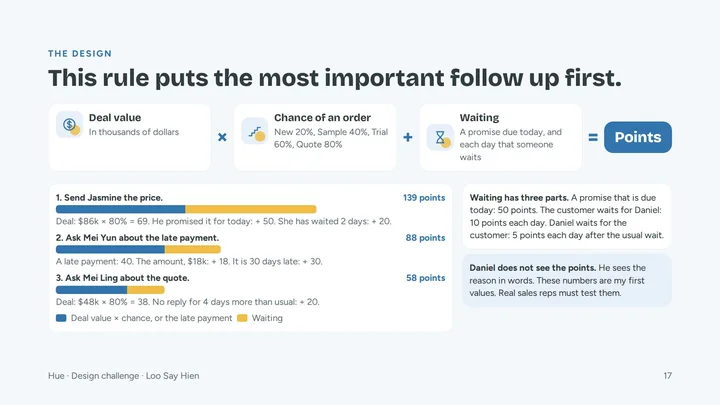
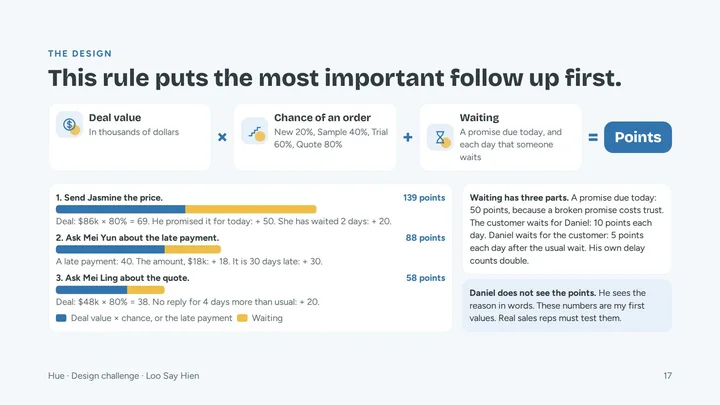
Third review of 6 October: new design system pictures, a quieter page sound, clearer slides
Link page: a new colour picture with whole cards, and two weather panels, sun and storm.
Design system page: the hex value in a colour card is plain text with no ground behind it.
Deck: the page sound is 70 percent quieter. The points slide gives the reason for the waiting points. The note measure counts visits.

Claude-Session: https://claude.ai/code/session_01VntYmmsz4Ly3rc1ciyMUdV

Changed region(s): [[0.6417, 0.4741, 0.9167, 0.8]]

diff --git a/links/index.html b/links/index.html
@@ -40,10 +40,11 @@
 .media.five .big{grid-row:1/3}
 .media.five img{background:none;border-radius:0;filter:drop-shadow(0 10px 24px rgba(48,60,64,.2))}
 .media.five figure:not(.big) figcaption{font-size:12.5px;border-left-width:2px;padding-left:7px}
-/* 2 pictures: one wide, one smaller at the right */
-.media.two{grid-template-columns:1fr}
-.media.two figure:nth-child(2){width:62%;margin-left:auto}
-.media.two figure:nth-child(2) img{box-shadow:var(--shadow-s)}
+/* the design system: the colours, then two weather panels side by side. The pictures have their own ground */
+.media.wx{gap:18px}
+.media.wx figure.plain img{background:none;border-radius:0;box-shadow:none;border:0}
+.media.wx .two{gap:clamp(10px,2vw,20px)}
+.media.wx .two img{aspect-ratio:auto;object-fit:contain;box-shadow:none;filter:drop-shadow(0 8px 18px rgba(48,60,64,.14))}
 /* 3 pictures: one tall, two wide */
 .media.trio{grid-template-columns:5fr 7fr;align-items:center}
 .media.trio .col{display:grid;gap:12px}
@@ -77,7 +78,7 @@
 <div class="wrap spreads"><section class="sp" id="prototype" aria-label="Try the prototype"><div class="txt"><p class="n" aria-hidden="true">01</p><h2><a href="../prototype/">Try the prototype</a></h2><p class="tease">It works on this phone. Tap the round button and talk, type, write or take a photo. Hue fills in the fields. You check them and save. 100 sample customers are inside.</p><a class="btn p" href="../prototype/">Open the prototype<svg viewBox="0 0 24 24" aria-hidden="true"><path d="M5 12h14M13 6l6 6-6 6"/></svg></a></div><a class="media five" href="../prototype/" tabindex="-1" aria-hidden="true"><figure class="ph big"><img src="../assets/links/proto-home.webp" alt="Home on a phone: the weather for the visits, the sales bar at 68 percent, and Today." width="520" height="1044" loading="lazy"><figcaption>Home: is he on track today?</figcaption></figure><figure class="ph"><img src="../assets/links/proto-talkdone.webp" alt="Talk a note on a phone: the words that he says, and five ticks for the parts of a good note." width="380" height="763" loading="lazy"><figcaption>Talk a note.</figcaption></figure><figure class="ph"><img src="../assets/links/proto-check.webp" alt="Check and save on a phone: Hue filled in 6 fields from your voice note. Check each field, then save." width="380" height="763" loading="lazy"><figcaption>Check, then save.</figcaption></figure><figure class="ph"><img src="../assets/links/proto-why.webp" alt="A phone with a warning for Tuas Textile Print: no reply for 16 days, with the reason." width="380" height="763" loading="lazy"><figcaption>No reply, with the reason.</figcaption></figure><figure class="ph"><img src="../assets/links/proto-late.webp" alt="A phone with a late payment of Kian Seng Trading: the reason, and a plan with three payments." width="380" height="763" loading="lazy"><figcaption>A late payment, with a plan.</figcaption></figure></a></section>
 <section class="sp r" id="deck" aria-label="Presentation deck"><div class="txt"><p class="n" aria-hidden="true">02</p><h2><a href="../deck/">Presentation deck</a></h2><p class="tease">The full story in 32 slides. Who Daniel is. What goes wrong in his week. How 23 ideas became one assistant. Why each screen is built the way it is. With a full screen mode and my speaker notes.</p><a class="btn p" href="../deck/">Open the deck<svg viewBox="0 0 24 24" aria-hidden="true"><path d="M5 12h14M13 6l6 6-6 6"/></svg></a></div><a class="media three" href="../deck/" tabindex="-1" aria-hidden="true"><figure class="main page"><img src="../assets/links/deck-cover.webp" alt="The first slide: Hue. You sell. Hue keeps track. A light customer relationship management tool for Avient Specialty Inks sales reps." width="1200" height="675" loading="lazy"><figcaption>Slide 1.</figcaption></figure><div class="two"><figure class="page"><img src="../assets/links/deck-problem.webp" alt="A blue slide with the problem: Daniel must record what customers say, quickly and correctly. Then he must do many tasks, small and large, each at the right time." width="720" height="405" loading="lazy"><figcaption>The problem.</figcaption></figure><figure class="page"><img src="../assets/links/deck-points.webp" alt="A slide: This rule puts the most important follow up first." width="720" height="405" loading="lazy"><figcaption>The order of the follow ups.</figcaption></figure></div></a></section>
 <section class="sp" id="film" aria-label="Watch the film"><div class="txt"><p class="n" aria-hidden="true">03</p><h2><a href="../film/">Watch the film</a></h2><p class="tease">One work day of Daniel, with Hue, in 90 seconds. The weather for his visits. A note in seconds. A customer that does not reply. Each screen in the film is the real prototype.</p><a class="btn p" href="../film/">Play the film<svg viewBox="0 0 24 24" aria-hidden="true"><path d="M5 12h14M13 6l6 6-6 6"/></svg></a></div><a class="media one" href="../film/" tabindex="-1" aria-hidden="true"><figure class="main film"><img src="../assets/links/film-1.webp" alt="The first picture of the film: the name Hue, the words You sell. Hue keeps track, a clip of Daniel, and a phone with the full Home screen." width="1280" height="720" loading="lazy"><span class="play" aria-hidden="true"><svg viewBox="0 0 24 24"><path d="M9 6.5v11l9-5.500z"/></svg></span><figcaption>90 seconds, with sound.</figcaption></figure></a></section>
-<section class="sp r" id="system" aria-label="Hue Design System"><div class="txt"><p class="n" aria-hidden="true">04</p><h2><a href="../design-system/">Hue Design System</a></h2><p class="tease">A blue that is inspired by the Avient blue, but more subdued, so Daniel can focus on his work. The parts, live on the page. The words that Hue uses.</p><a class="btn p" href="../design-system/">Open the design system<svg viewBox="0 0 24 24" aria-hidden="true"><path d="M5 12h14M13 6l6 6-6 6"/></svg></a></div><a class="media two" href="../design-system/" tabindex="-1" aria-hidden="true"><figure class="main page"><img src="../assets/links/ds-colours.webp" alt="Colour cards: the Avient blue, and the more subdued blues of the app." width="1100" height="483" loading="lazy"><figcaption>The app blue is more subdued than the Avient blue.</figcaption></figure><figure class="page"><img src="../assets/links/ds-weather.webp" alt="The weather panel: Good morning, Daniel. Storms at 3 pm, when you visit Tuas Textile Print. Leave 15 minutes early." width="541" height="337" loading="lazy"><figcaption>A part: the greeting with the weather.</figcaption></figure></a></section>
+<section class="sp r" id="system" aria-label="Hue Design System"><div class="txt"><p class="n" aria-hidden="true">04</p><h2><a href="../design-system/">Hue Design System</a></h2><p class="tease">A blue that is inspired by the Avient blue, but more subdued, so Daniel can focus on his work. The parts, live on the page. The words that Hue uses.</p><a class="btn p" href="../design-system/">Open the design system<svg viewBox="0 0 24 24" aria-hidden="true"><path d="M5 12h14M13 6l6 6-6 6"/></svg></a></div><a class="media wx" href="../design-system/" tabindex="-1" aria-hidden="true"><figure class="plain"><img src="../assets/links/ds-colours.webp" alt="Colour cards. Avient blue, #0080E0. App blue, #3274AE: inspired by it, but more subdued. Below them: dark blue, pale blue, ink, Hue red and Hue yellow." width="1200" height="686" loading="lazy"><figcaption>The app blue is more subdued than the Avient blue.</figcaption></figure><div class="two"><figure class="plain"><img src="../assets/links/ds-wx-sun.webp" alt="The weather panel in the morning sun, in yellow: Good morning, Daniel. Storms at 3 pm, when you visit Tuas Textile Print. Leave 15 minutes early." width="515" height="305" loading="lazy"><figcaption>The weather panel in the sun.</figcaption></figure><figure class="plain"><img src="../assets/links/ds-wx-storm.webp" alt="The weather panel in a storm, in dark grey: Good afternoon, Daniel. The same sentence about the visit." width="515" height="305" loading="lazy"><figcaption>The same panel in a storm.</figcaption></figure></div></a></section>
 <section class="sp" id="guide" aria-label="How Hue Works"><div class="txt"><p class="n" aria-hidden="true">05</p><h2><a href="../guide/">How Hue Works</a></h2><p class="tease">Each screen, in three columns: what Daniel sees, what it does for him, and how Hue knows. With the rule that puts the most important follow up first.</p><a class="btn p" href="../guide/">Open the guide<svg viewBox="0 0 24 24" aria-hidden="true"><path d="M5 12h14M13 6l6 6-6 6"/></svg></a></div><a class="media trio" href="../guide/" tabindex="-1" aria-hidden="true"><figure class="page"><img src="../assets/links/guide-attn.webp" alt="A phone with a sheet for Tuas Textile Print: No reply for 16 days, why Hue flagged this, and four ways to act." width="508" height="1006" loading="lazy"><figcaption>What Hue does when a customer does not reply.</figcaption></figure><div class="col"><figure class="page"><img src="../assets/links/guide-flow.webp" alt="A diagram: Daniel records a note. Hue reads the note. Daniel checks and saves. The customer record. Then the parts of Home read the record." width="1000" height="749" loading="lazy"><figcaption>One note goes to all screens.</figcaption></figure><figure class="page"><img src="../assets/links/guide-table.webp" alt="A table: the first follow ups of the sample day, each with the reason that Daniel reads and how the points add up." width="900" height="465" loading="lazy"><figcaption>The reason for each follow up.</figcaption></figure></div></a></section>
 <section class="sp r" id="code" aria-label="The code"><div class="txt"><p class="n" aria-hidden="true">06</p><h2><a href="https://github.com/sayhien/avient-sales-rep-tool">The code</a></h2><p class="tease">The prototype is one file. It works from a folder, with no internet, on a phone, a tablet and a computer. The rule that puts the most important follow up first is a few lines.</p><a class="btn p" href="https://github.com/sayhien/avient-sales-rep-tool">Open the code on GitHub<svg viewBox="0 0 24 24" aria-hidden="true"><path d="M5 12h14M13 6l6 6-6 6"/></svg></a></div><a class="media pair" href="https://github.com/sayhien/avient-sales-rep-tool" tabindex="-1" aria-hidden="true"><figure class="code"><img src="../assets/links/code-rule.webp" alt="A card with code from the prototype: the function that gives points to each follow up." width="1200" height="520" loading="lazy"><figcaption>The rule for the order, from the real file.</figcaption></figure><figure class="dev"><img src="../assets/links/code-devices.webp" alt="Hue on a computer, a tablet and a phone." width="1100" height="632" loading="lazy"><figcaption>One file, three devices.</figcaption></figure></a></section></div>
 

diff --git a/deck/index.html b/deck/index.html
@@ -1113,7 +1113,7 @@ body.show{overflow:hidden}
 </div>
 <div style="width:560px;display:flex;flex-direction:column;gap:12px">
 <div style="display:flex;flex-direction:column;gap:8px;background:#FFFFFF;border:1px solid #E0E7ED;border-radius:24px;padding:20px">
-<p style="font-size:24px;line-height:1.4;color:#303C40"><b>Waiting has three parts.</b> A promise that is due today: 50 points. The customer waits for Daniel: 10 points each day. Daniel waits for the customer: 5 points each day after the usual wait.</p>
+<p style="font-size:24px;line-height:1.4;color:#303C40"><b>Waiting has three parts.</b> A promise due today: 50 points, because a broken promise costs trust. The customer waits for Daniel: 10 points each day. Daniel waits for the customer: 5 points each day after the usual wait. His own delay counts double.</p>
 </div>
 <div style="display:flex;flex-direction:column;gap:8px;background:#E7F0F8;border-radius:24px;padding:20px">
 <p style="font-size:24px;line-height:1.4;color:#303C40"><b>Daniel does not see the points.</b> He sees the reason in words. These numbers are my first values. Real sales reps must test them.</p>
@@ -1125,7 +1125,7 @@ body.show{overflow:hidden}
 <p style="font-size:24px;color:#5F6F78">17</p>
 </div>
 
-</section></div><p class="num"><span>17 of 32</span><button class="go" data-i="16">Present from this slide</button></p><p class="note"><b>Notes.</b> How does Hue know which follow up is first? It uses a rule. Points are the deal value times the chance of an order, plus the waiting time. Waiting has three parts. A promise that is due today gets 50 points. When the customer waits for Daniel, each day gets 10 points. When Daniel waits for the customer, each day after the usual wait gets 5 points. Here is an example. The price for Jasmine has 139 points, so it is first. A late payment has its own rule, because money that a customer owes comes before most new deals. Daniel does not see the points. He sees the reason. These numbers are my first values. A test with real sales reps must confirm them.</p></article>
+</section></div><p class="num"><span>17 of 32</span><button class="go" data-i="16">Present from this slide</button></p><p class="note"><b>Notes.</b> How does Hue know which follow up is first? It uses a rule. Points are the deal value times the chance of an order, plus the waiting time. Waiting has three parts. A promise that is due today gets 50 points, because a broken promise costs trust. This is as much as a large deal. When the customer waits for Daniel, each day gets 10 points. When Daniel waits for the customer, each day after the usual wait gets 5 points. His own delay counts double, because he can end it today. Each of these two stops at 30 points, so a small old item does not stay at the top. Here is an example. The price for Jasmine has 139 points, so it is first. A late payment has its own rule, because money that a customer owes comes before most new deals. Daniel does not see the points. He sees the reason. These numbers are my first values. A test with real sales reps must confirm them.</p></article>
 <article class="fr" id="capture"><div class="box"><section class="sl" id="s-capture" aria-label="Slide 18" data-transition="fade" style="background:#F4F8FB;color:#303C40;font-family:'Figtree', Arial, sans-serif;padding:128px 128px 160px;display:flex;flex-direction:column;gap:32px">
 <div style="display:flex;flex-direction:column;gap:16px">
 <p style="font-size:24px;font-weight:700;letter-spacing:3px;text-transform:uppercase;color:#3274AE">The design</p>
@@ -1726,8 +1726,8 @@ body.show{overflow:hidden}
 <div style="display:flex;flex-direction:row;gap:20px;align-items:center;padding:7px 0;border-bottom:1px solid #E0E7ED">
 <div style="flex:none;width:44px"><svg width="44" height="44" viewBox="0 0 44 44" fill="none"><g transform="scale(1.0000)"><rect width="44" height="44" rx="12" fill="#E7F0F8"/><circle cx="31" cy="31" r="8.5" fill="#EFBE46" opacity=".85"/><g transform="translate(10 10)" stroke="#3274AE" stroke-width="1.8" stroke-linecap="round" stroke-linejoin="round"><path d="M4 20l1-4L16 5a2.1 2.1 0 0 1 3 3L8 19z"/><path d="M13.5 7.5l3 3"/></g></g></svg></div>
 <p style="width:330px;font-size:24px;line-height:1.4;color:#303C40;font-weight:600">Notes are easy to do</p>
-<p style="flex:1;font-size:24px;line-height:1.4;color:#303C40;font-weight:400">Notes that are in the record on the day of the visit</p>
-<p style="width:400px;font-size:24px;line-height:1.4;color:#5F6F78;font-weight:400">9 of 10</p>
+<p style="flex:1;font-size:24px;line-height:1.4;color:#303C40;font-weight:400">Visits that have a note in Hue on the same day</p>
+<p style="width:400px;font-size:24px;line-height:1.4;color:#5F6F78;font-weight:400">9 of 10 visits</p>
 </div>
 <div style="display:flex;flex-direction:row;gap:20px;align-items:center;padding:7px 0;border-bottom:1px solid #E0E7ED">
 <div style="flex:none;width:44px"><svg width="44" height="44" viewBox="0 0 44 44" fill="none"><g transform="scale(1.0000)"><rect width="44" height="44" rx="12" fill="#E7F0F8"/><circle cx="31" cy="31" r="8.5" fill="#EFBE46" opacity=".85"/><g transform="translate(10 10)" stroke="#3274AE" stroke-width="1.8" stroke-linecap="round" stroke-linejoin="round"><path d="M12 3l8 3v6c0 4.5-3.2 7.9-8 9-4.8-1.1-8-4.5-8-9V6z"/><path d="M8.5 12l2.5 2.5 4.5-5"/></g></g></svg></div>
@@ -1995,7 +1995,7 @@ body.show{overflow:hidden}
       on=false, cur=-1, sound=true, idle=0, last=null;
   function size(){ var k=Math.min(stage.clientWidth/1920, stage.clientHeight/1080); if(cur>=0) sls[cur].style.setProperty('--k', k) }
   /* the sound of a page: a short recording, stored with the site */
-  var page=new Audio('../assets/media/page-flip.mp3'); page.preload='auto'; page.volume=.9;
+  var page=new Audio('../assets/media/page-flip.mp3'); page.preload='auto';
   function flip(){ if(!sound) return; try{ page.currentTime=0; var p=page.play(); if(p&&p.catch) p.catch(function(){}) }catch(e){} }
   /* the first guide: it goes away at the first page turn, at a tap, or after some seconds */
   var hint=document.getElementById('hint'), hintT=0;

diff --git a/design-system/index.html b/design-system/index.html
@@ -34,6 +34,10 @@
 .part details ul{margin:0 0 12px 1.2em}
 .prose h3.bk{font-size:22px;margin-top:38px;scroll-margin-top:76px}
 .prose code{font:500 .88em ui-monospace,Menlo,monospace;background:var(--soft);padding:1px 5px;border-radius:5px}
+/* the hex value in a colour card: plain, with no ground behind it */
+.prose .sw code{background:none;border-radius:0;padding:3px 12px 0;font:600 13.5px/1.3 var(--fb);letter-spacing:.06em;color:var(--sub)}
+.prose .tk code{background:none;padding:0}
+.sw{align-content:start}
 /* the tokens and the styles of the parts, only inside a preview */
 .pv{--font-display:"Bricolage Grotesque", "Figtree", system-ui, sans-serif;--font-body:"Figtree", system-ui, -apple-system, "Segoe UI", sans-serif;--avient-blue:#0080E0;--blue-600:#3274AE;--blue-700:#285F91;--hue-red:#D9624F;--hue-yellow:#EFBE46;--blue-200:#B4CEE6;--blue-100:#E7F0F8;--blue-50:#F4F8FB;--white:#FFFFFF;--ink:#303C40;--ink-muted:#5F6F78;--line:#E0E7ED;--amber-50:#FFF3DD;--amber-300:#EBCF9C;--amber-800:#7F5410;--red-50:#FDE9E7;--red-300:#F0B6B0;--red-700:#A3261C;--sky-sun:#FFE7A6;--sky-cloud:#D3DCE3;--sky-rain:#AFC6D9;--sky-storm:#2E3C49;--sky-night:#101D33;--space-1:4px;--space-2:6px;--space-3:8px;--space-4:10px;--space-5:12px;--space-6:16px;--radius-md:14px;--radius-lg:16px;--radius-xl:22px;--radius-pill:999px;--shadow-float:0 6px 14px rgba(50, 116, 174, 0.3);--shadow-menu:0 4px 12px rgba(48, 60, 64, 0.16)}
 .pv .row{display:flex;gap:12px;flex-wrap:wrap;align-items:flex-start}
